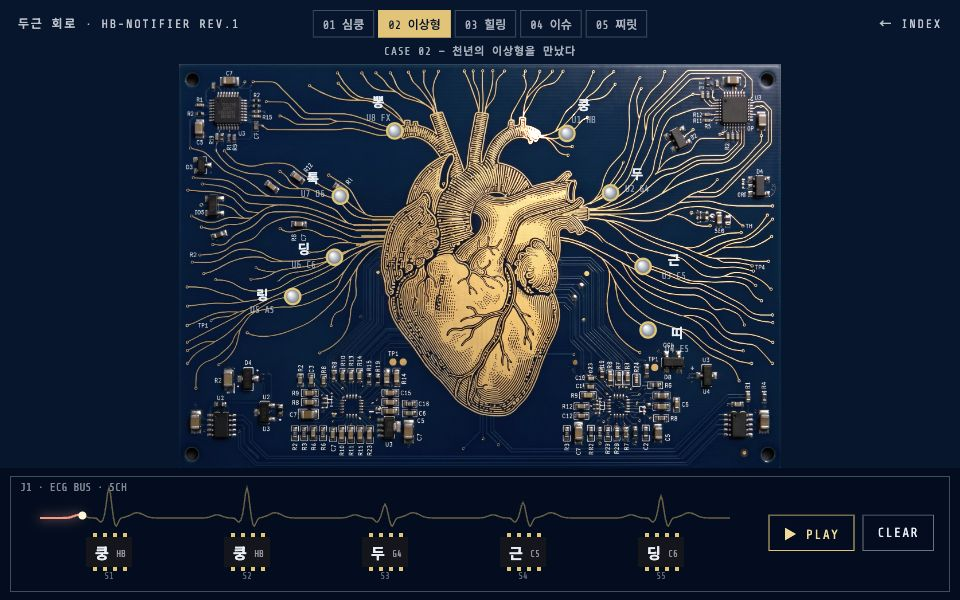
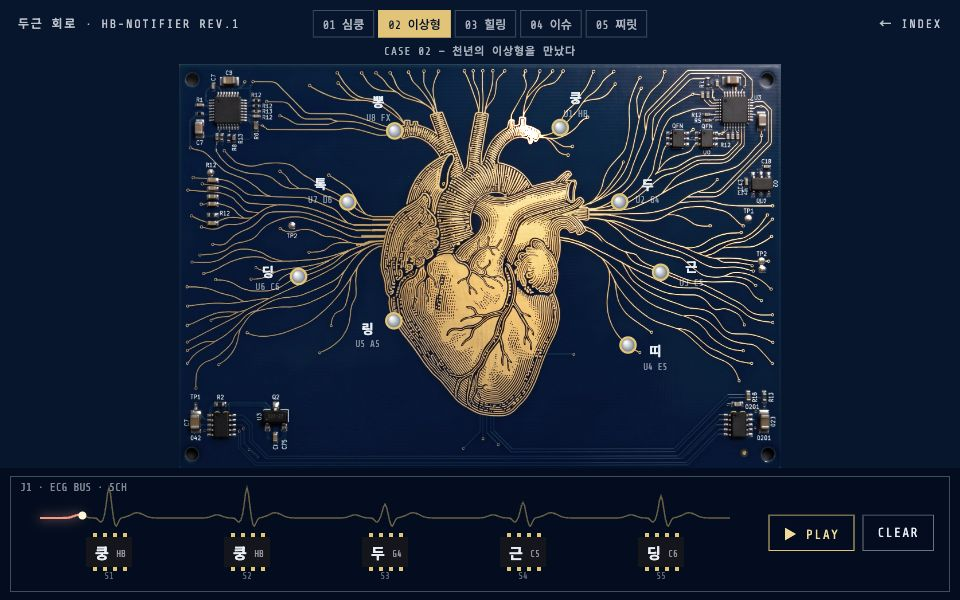
day-261118 부품 수 줄인 기판으로

diff --git a/day-261118/main.js b/day-261118/main.js
@@ -1,5 +1,5 @@
 import { unlock, play as sound, now } from './audio.js';
-import { buildCircuit, paintCircuit } from './circuit.js?v=9';
+import { buildCircuit, paintCircuit } from './circuit.js?v=10';
 
 const NOTES = [
   { k: '쿵', n: 'HB', f: 0, type: 'thump' },
@@ -24,7 +24,7 @@ const GOLD = '#e7c36a', SILK = '#e8eef4';
 const MONO = '"Share Tech Mono", monospace', KR = '"Noto Sans KR", sans-serif';
 
 const cv = document.getElementById('c'), ctx = cv.getContext('2d');
-const img = new Image(); img.src = 'board.jpg?v=3';
+const img = new Image(); img.src = 'board.jpg?v=4';
 const clamp = (v, a, b) => Math.max(a, Math.min(b, v));
 const ease = t => { t = clamp(t, 0, 1); return t * t * (3 - 2 * t); };
 

diff --git a/day-261118/index.html b/day-261118/index.html
@@ -28,6 +28,6 @@
 <header id="top"><span>두근 회로 · HB-NOTIFIER REV.1</span><a href="../index.html">← INDEX</a></header>
 <nav id="sel"><div id="cases"></div><div id="cdesc"></div></nav>
 <div id="ctl"><button id="play">▶ PLAY</button><button id="clear">CLEAR</button></div>
-<script type="module" src="main.js?v=12"></script>
+<script type="module" src="main.js?v=14"></script>
 </body>
 </html>

diff --git a/day-261118/circuit.js b/day-261118/circuit.js
@@ -1,4 +1,4 @@
-const PAD_ANG = [-58, -28, 0, 22, 158, 180, 208, 238];
+const PAD_ANG = [-58, -28, 0, 28, 146, 180, 208, 238];
 
 export function buildCircuit(img) {
   const MW = 720, MH = Math.round(img.naturalHeight / img.naturalWidth * MW), N = MW * MH;
